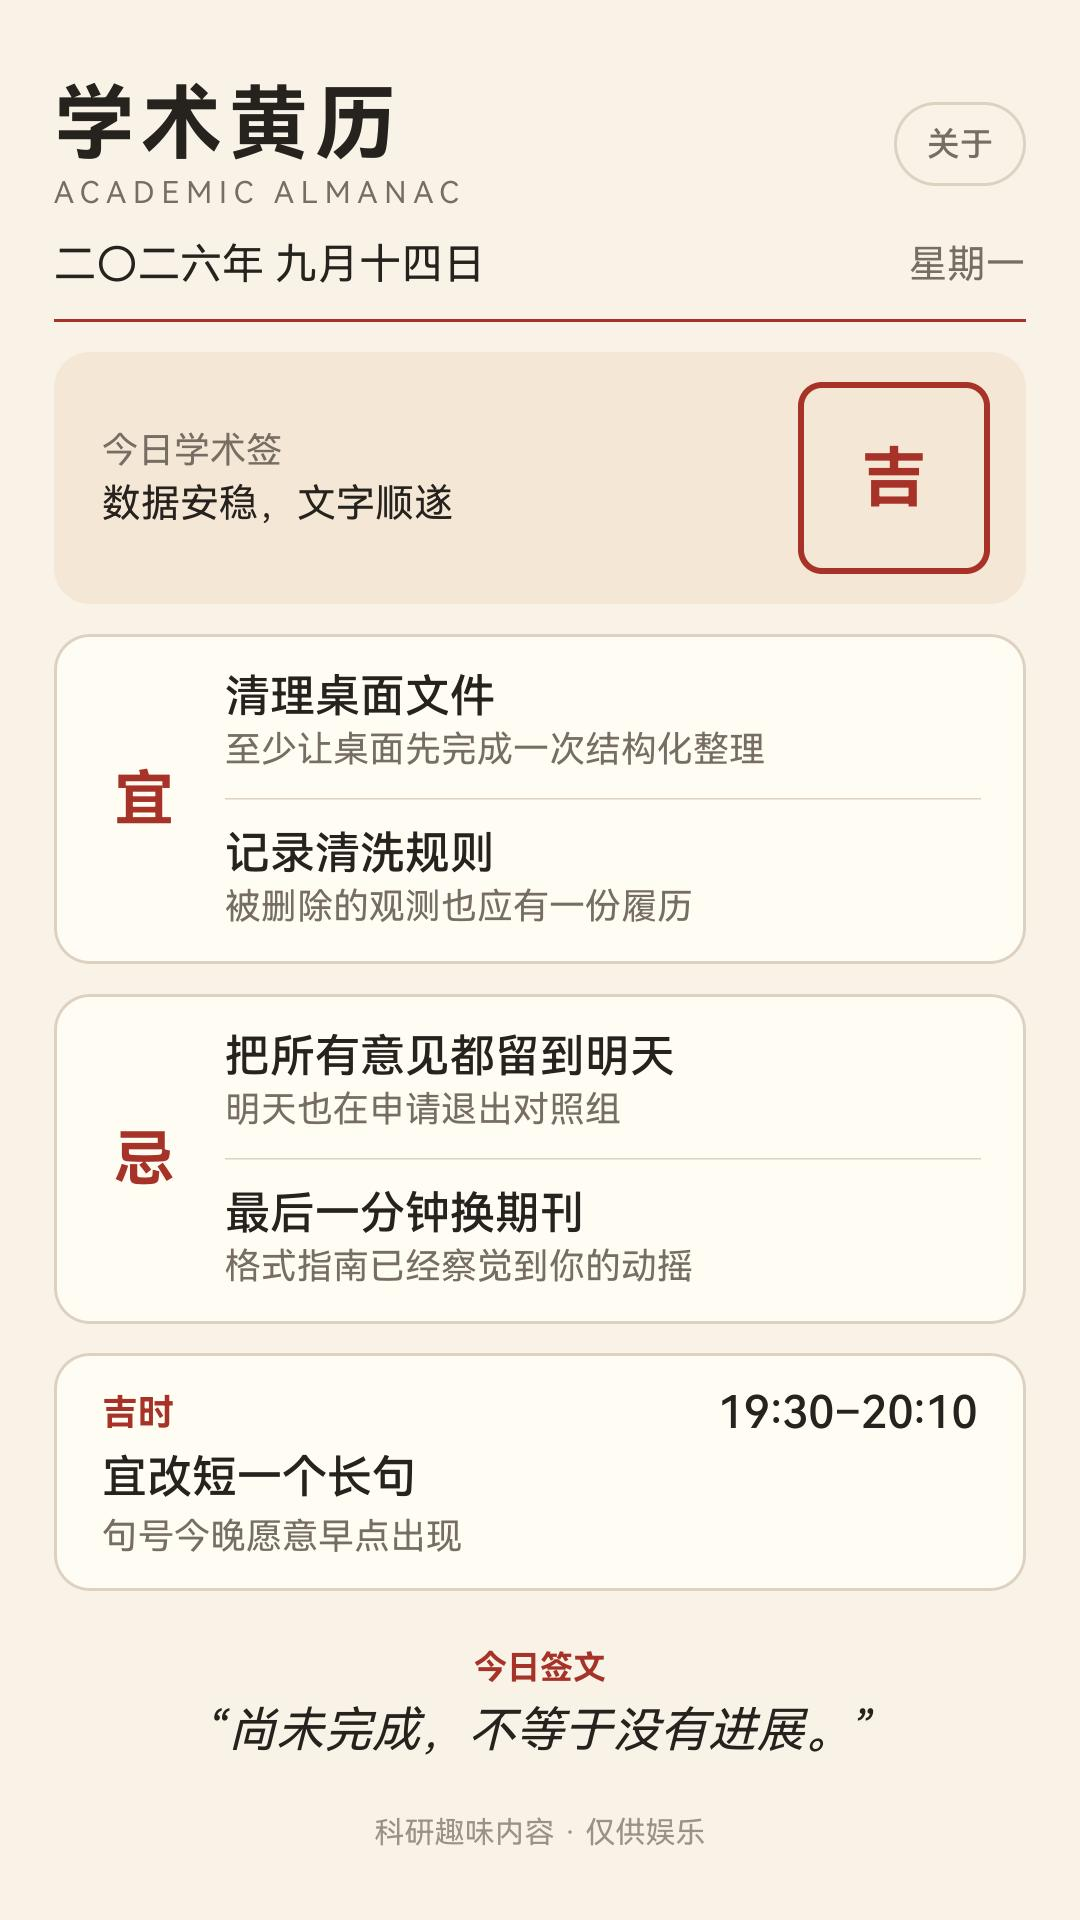
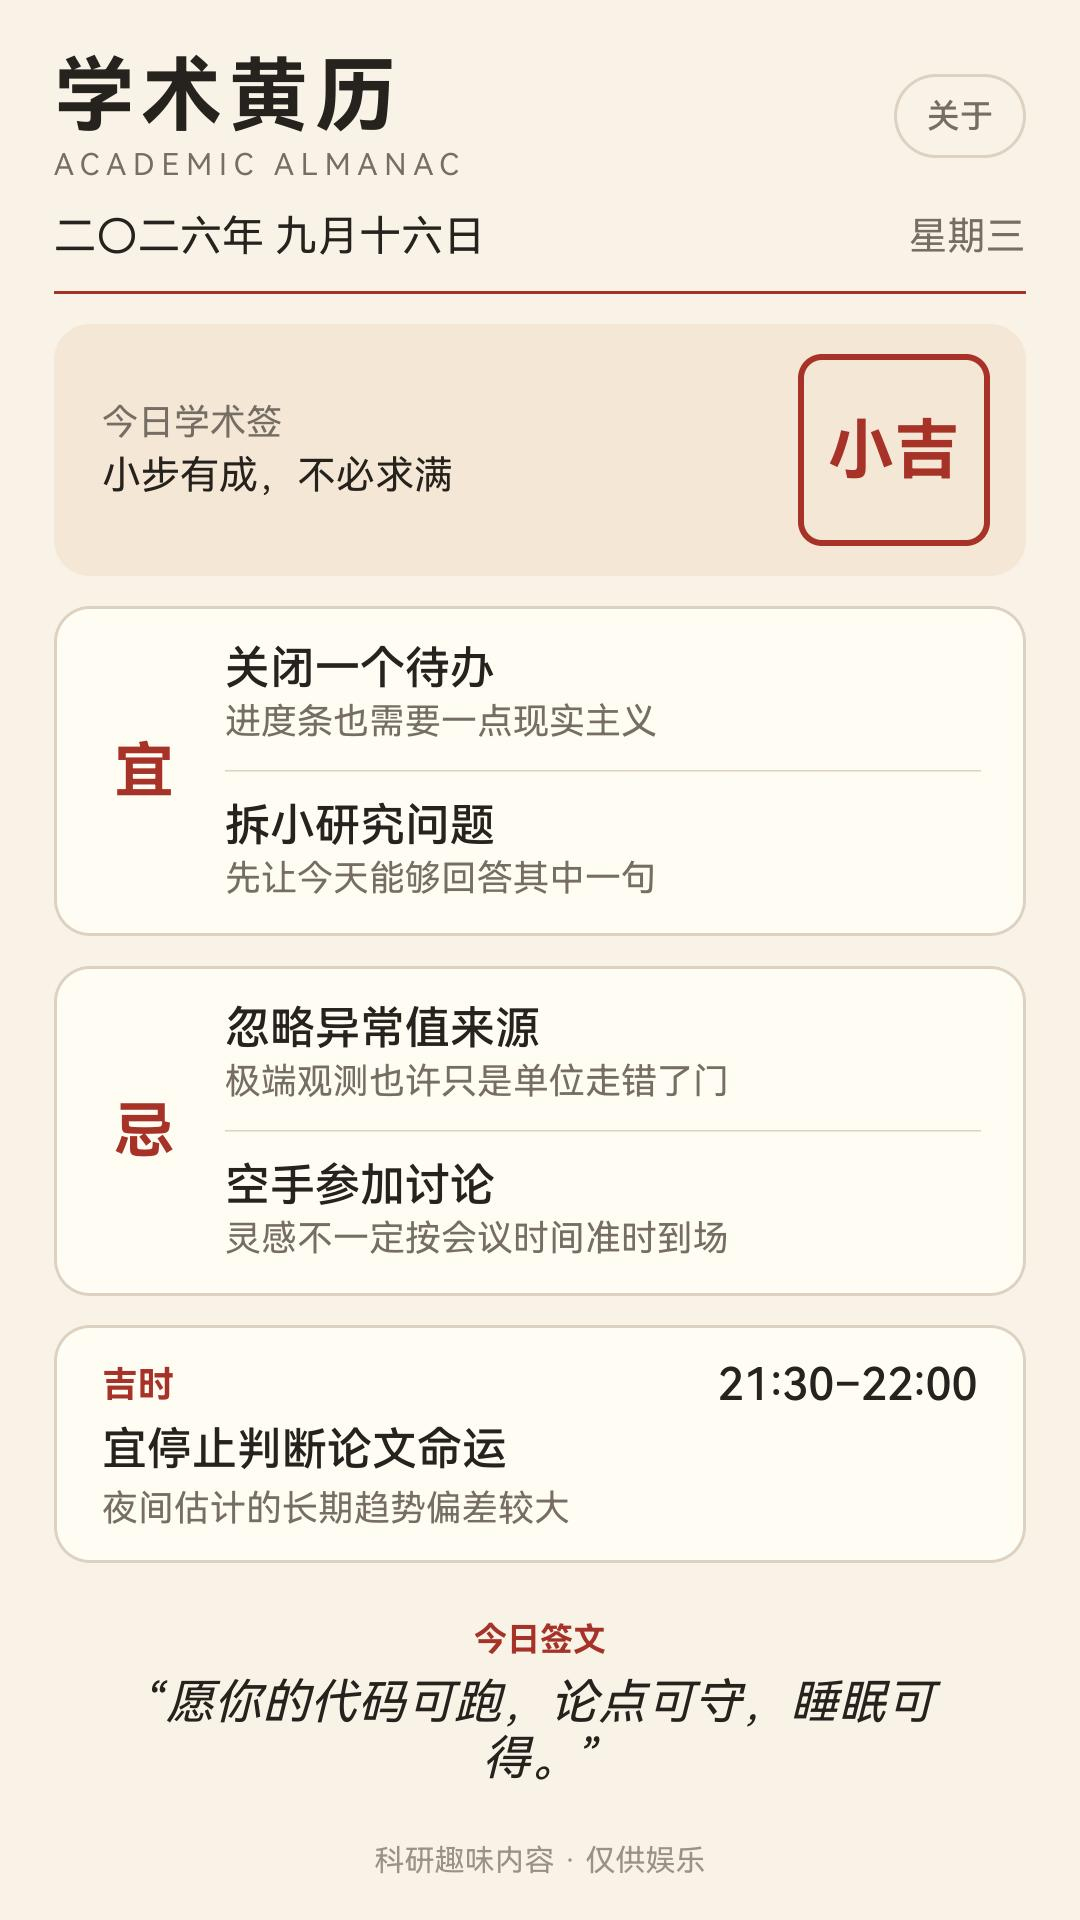
release: resubmit AppGallery 1.0.1

diff --git a/RELEASE_STATUS.md b/RELEASE_STATUS.md
@@ -1,12 +1,16 @@
 # Release Status
 
 - 应用名称：学术黄历 Academic Almanac
-- 版本号：1.0.0（1000000）
+- 当前正式版本：1.0.1（1000001）
 - 测试状态：AppGallery Connect 邀请测试审核通过并已开放；测试期为 2026-09-14 至 2026-12-12
 - 测试下载/邀请入口：https://appgallery.huawei.com/link/invite-test-wap?taskId=2545e317edef88f8eda66c8d3fb43794
 - 邀请码：`9eQy8SAGrDY`
-- 正式上架状态：已于 2026-09-14 提交审核并通过华为自动预审，当前正在等待应用市场审核团队审核
+- 1.0.0 审核结果：未通过。审核附件中的真机视频显示首屏持续停留在“正在翻阅今日学术运势…”，主要功能无法使用
+- 1.0.1 修复：将黄历 JSON 在构建阶段编译为 ArkTS 数据模块，移除真机运行时对 `rawfile`、`Context` 和文本解码器的依赖；同时加入数据库哈希一致性及禁止恢复运行时资源读取的回归测试
+- 验证结果：自动测试 6/6 通过；Release APP/HAP 构建成功；华为签名工具摘要校验通过；官方 ArkUI 运行时中首屏可立即显示完整内容
+- 新包状态：`AcademicAlmanac-1.0.1-release-signed.app` 已上传并启动华为上架自检
+- 正式上架状态：已于 2026-09-16 使用 1.0.1 重新提交，当前为“预审中”
 - 发布区域：中国大陆
 - 上架方式：审核通过后立即上架
-- 应用截图：已提交 3 张华为 ArkUI 官方运行时渲染的 1080×1920 竖屏截图，保存在 `release-assets/screenshots/`
+- 应用截图：已重新提交 3 张真实运行截图，其中首屏和“关于”页已更新为 1.0.1 官方 ArkUI 运行时画面，保存在 `release-assets/screenshots/`
 - 手机端安装：在 HarmonyOS NEXT 手机的系统浏览器打开上方邀请链接，点击“开始测试”并在华为应用市场安装
